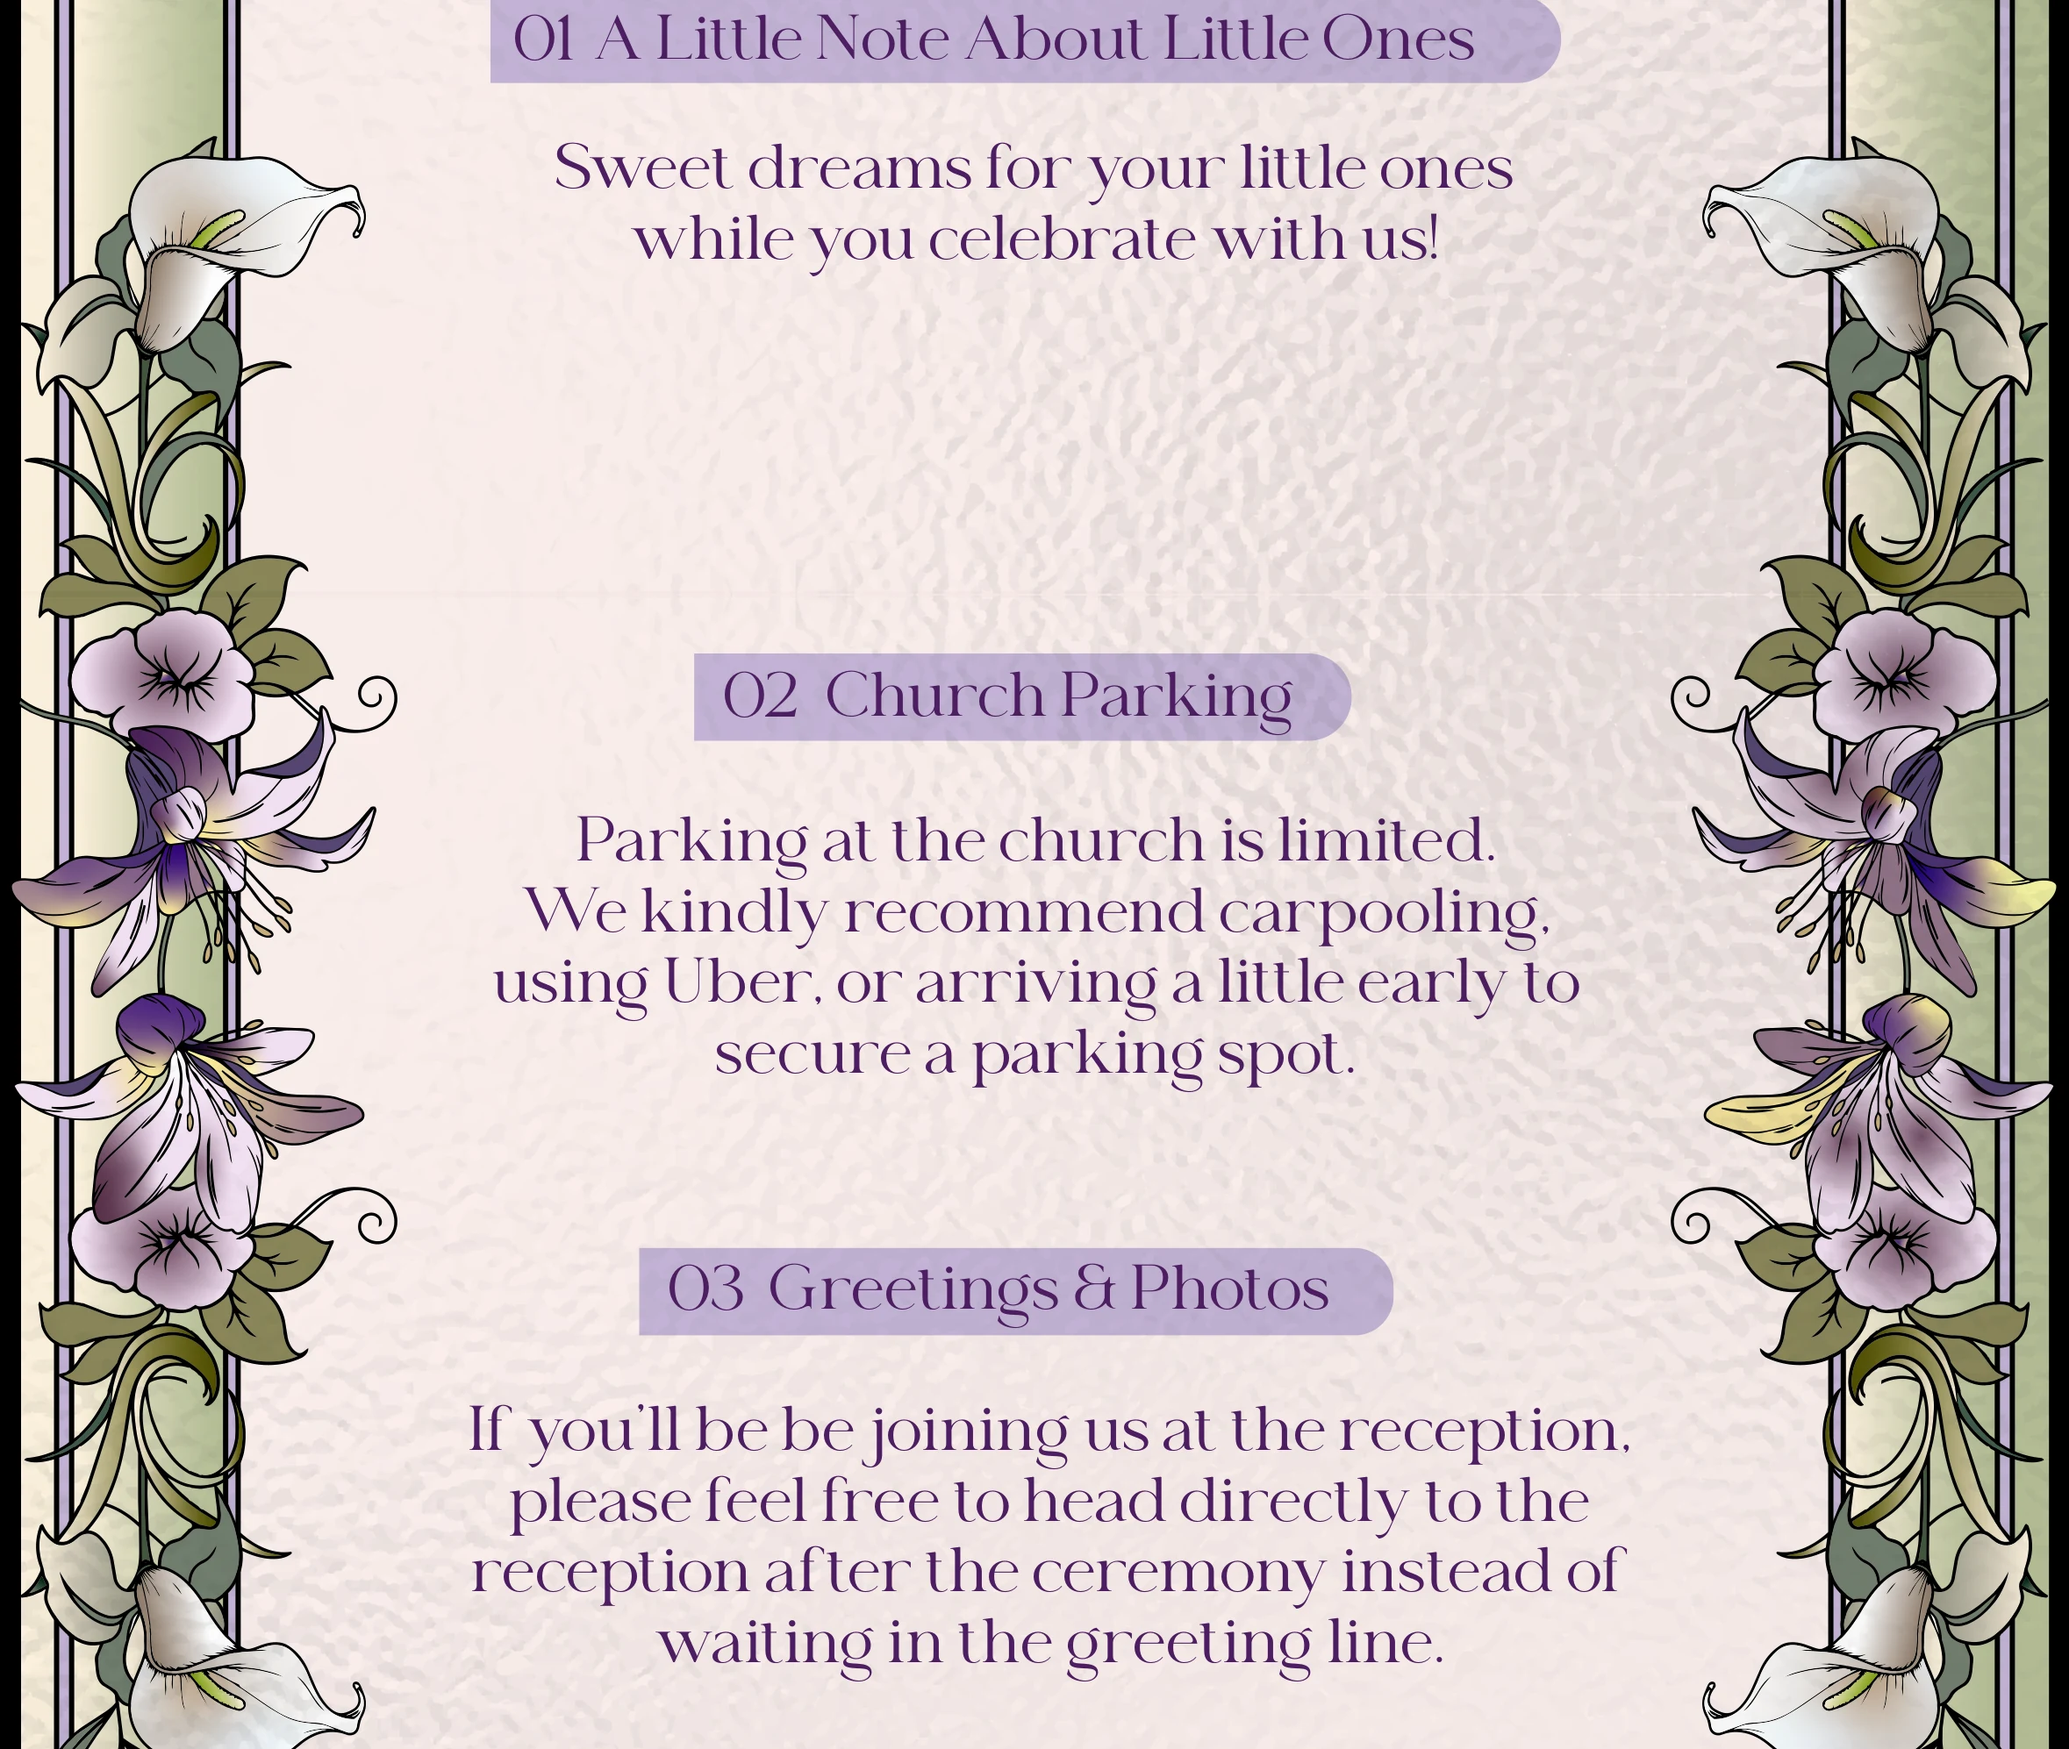
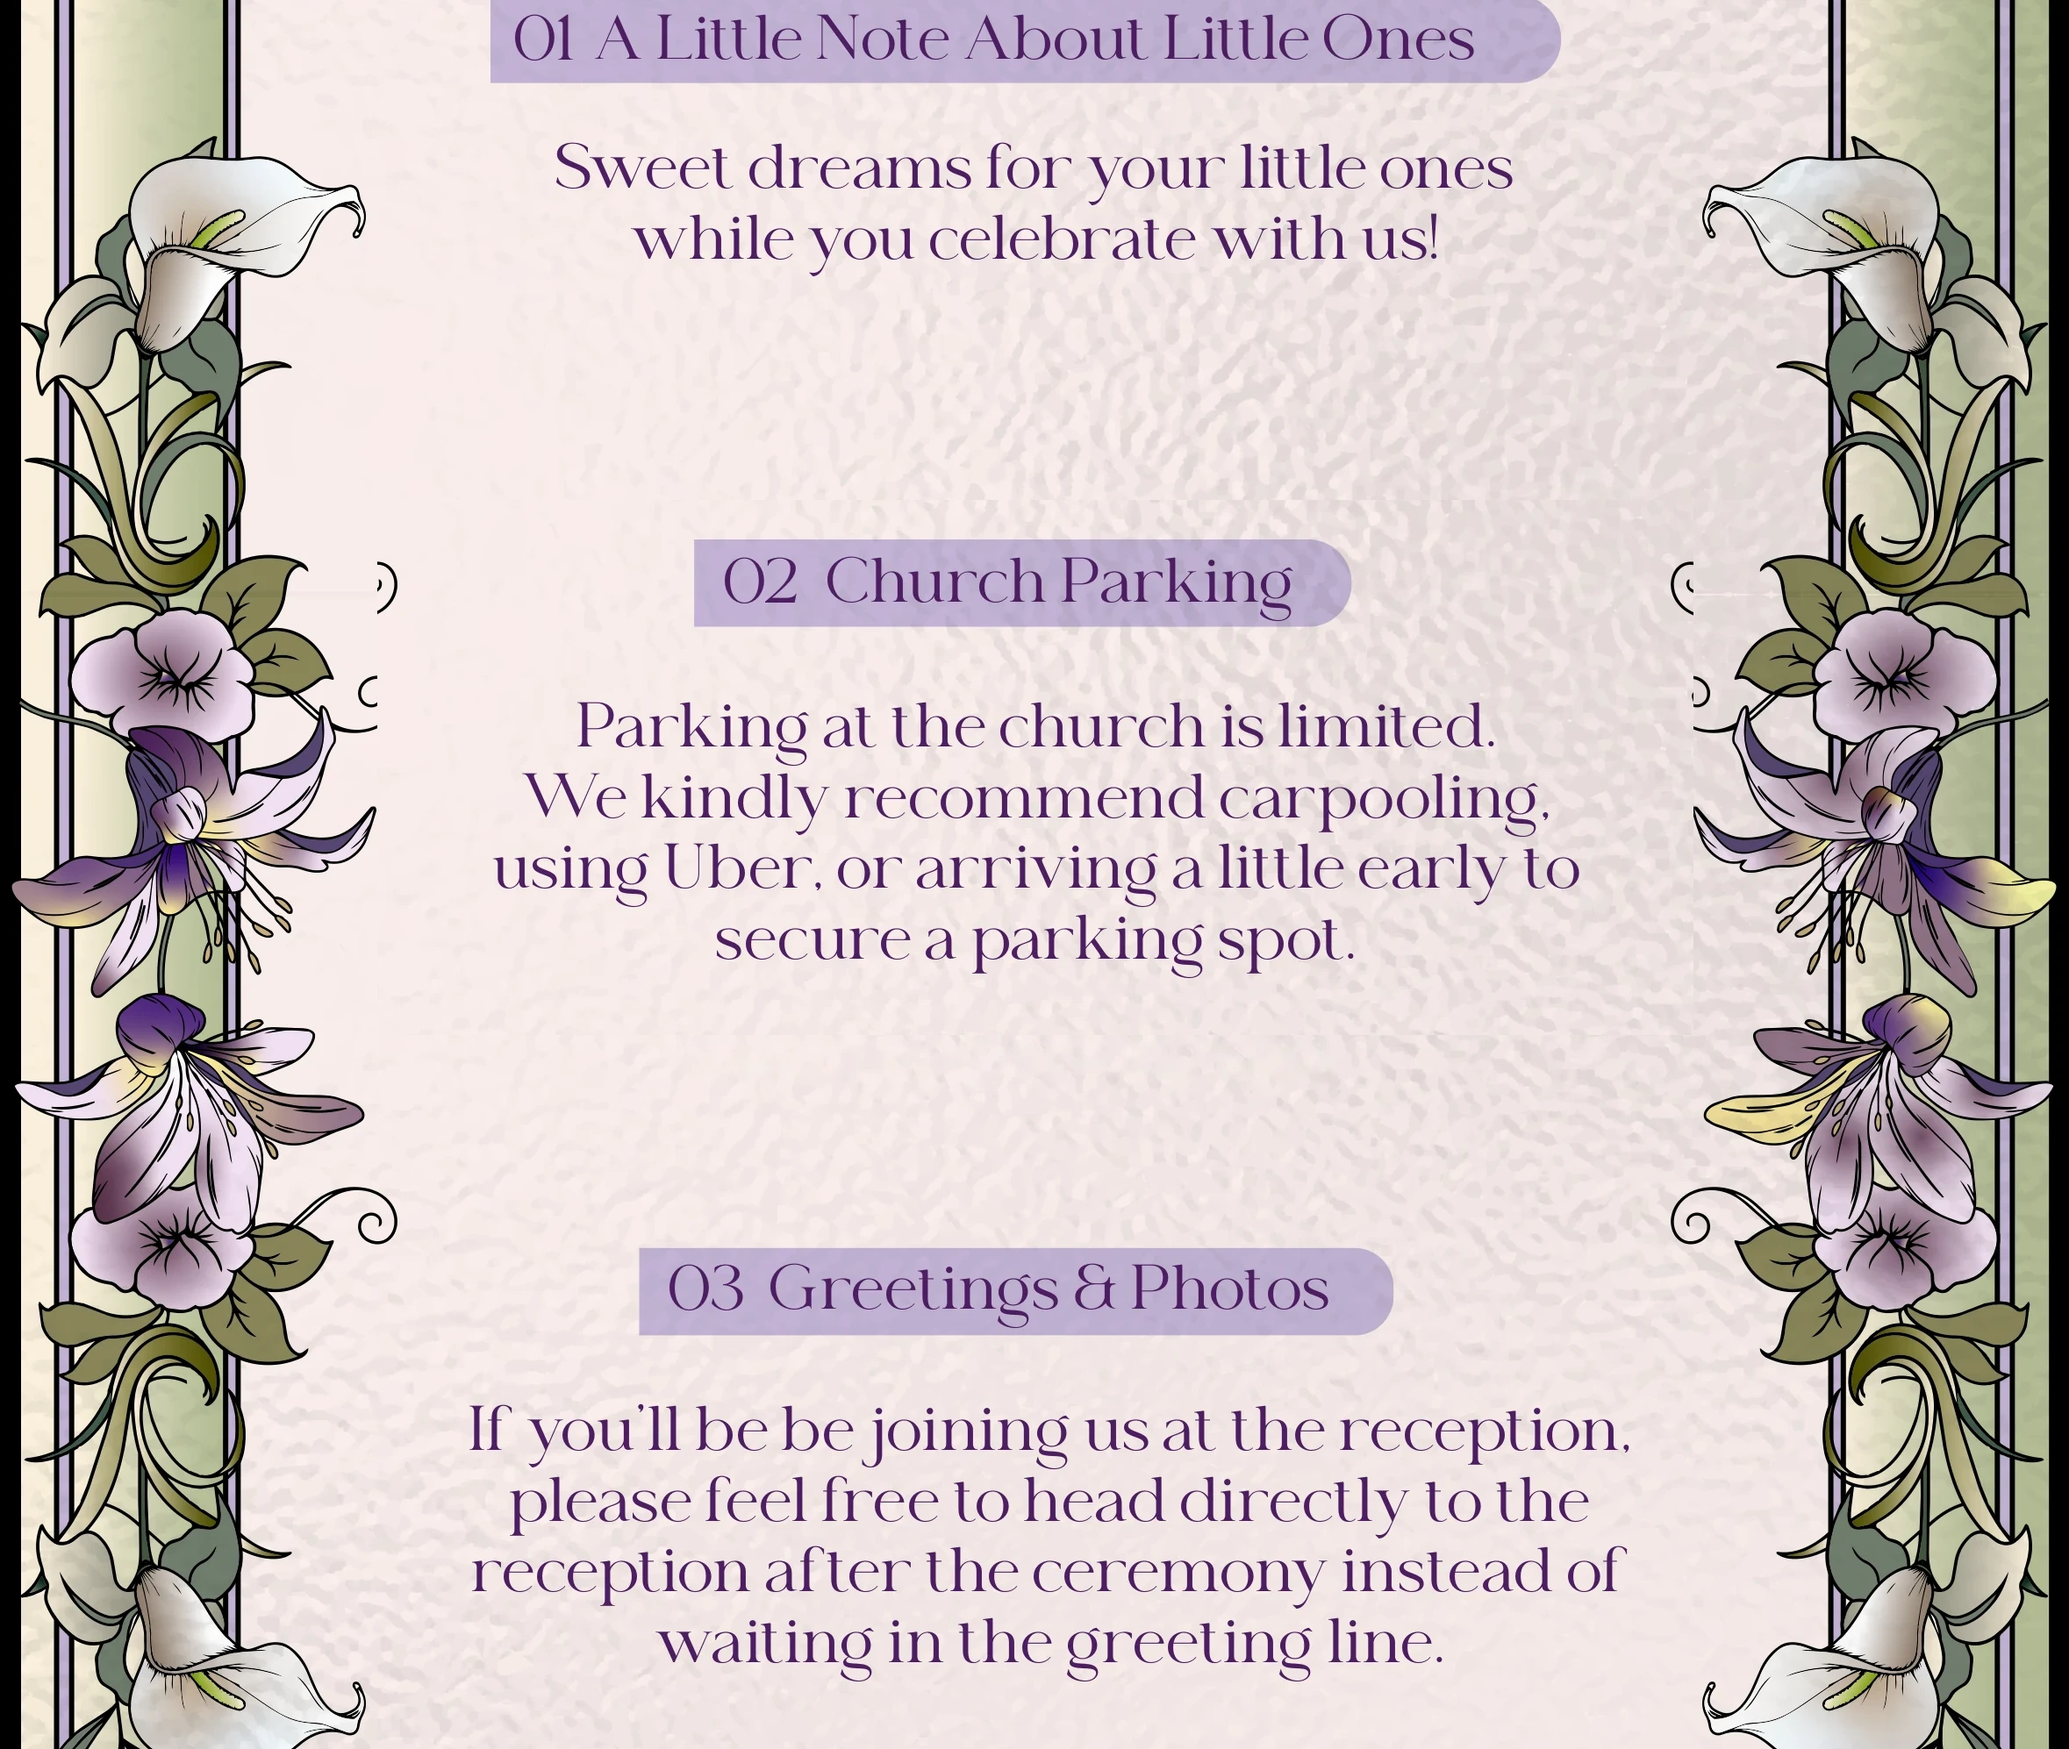
Fix uneven spacing between friendly notes

Changed region(s): [[0.2477, 0.3109, 0.743, 0.6219], [0.2477, 0.5597, 0.3096, 0.5908]]

diff --git a/index.html b/index.html
@@ -486,7 +486,7 @@
     <img class="bg" src="images/section_06.webp?v=2" alt="Reception at Hilton Cairo Heliopolis, The Garden, doors open at 5:30 PM" width="2358" height="1198">
     <img class="bg" src="images/section_07.webp?v=4" alt="RSVP form" width="2358" height="2398">
     <img class="bg" src="images/section_08.webp" alt="A few friendly notes" width="2358" height="1406">
-    <img class="bg" src="images/section_09.webp" alt="A little note about little ones, church parking, and greetings and photos" width="2358" height="1994">
+    <img class="bg" src="images/section_09.webp?v=2" alt="A little note about little ones, church parking, and greetings and photos" width="2358" height="1994">
     <img class="bg" src="images/section_10.webp" alt="" role="presentation" width="2358" height="742">
     <img class="bg" src="images/section_11.webp" alt="We can't wait to celebrate with you — thank you for being part of one of the most meaningful days of our lives. With love, Nancy and Marc" width="2358" height="1836">
 
